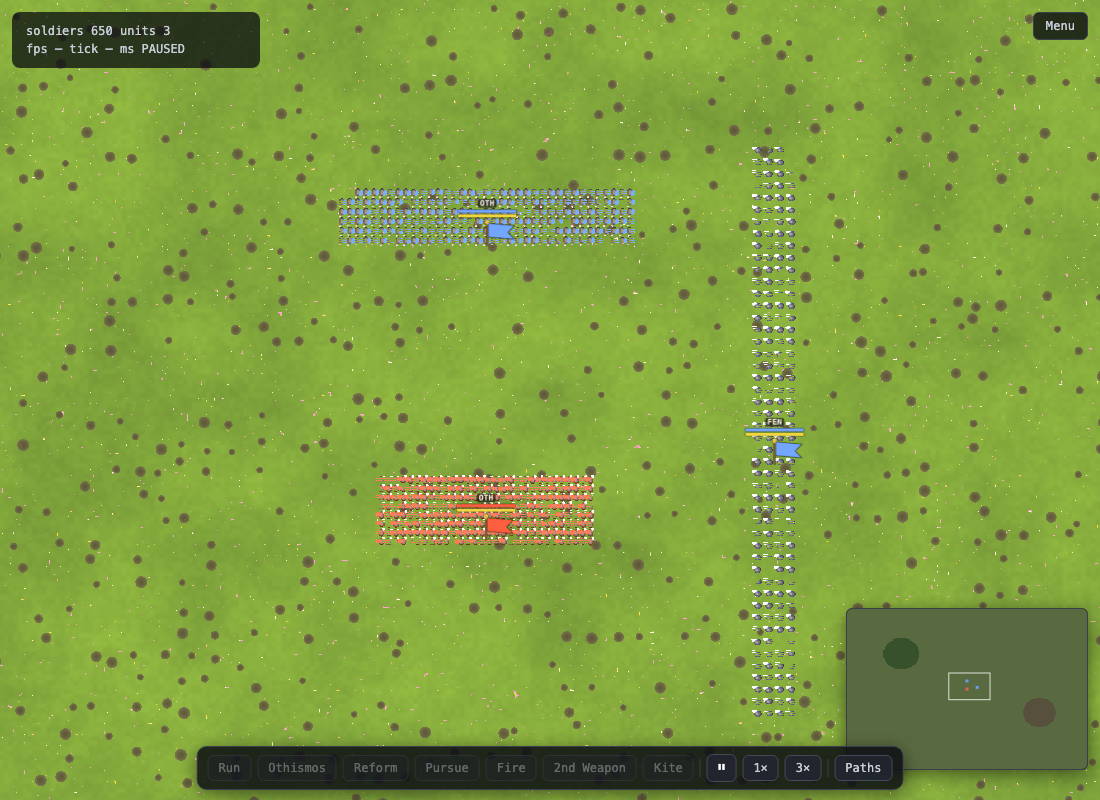
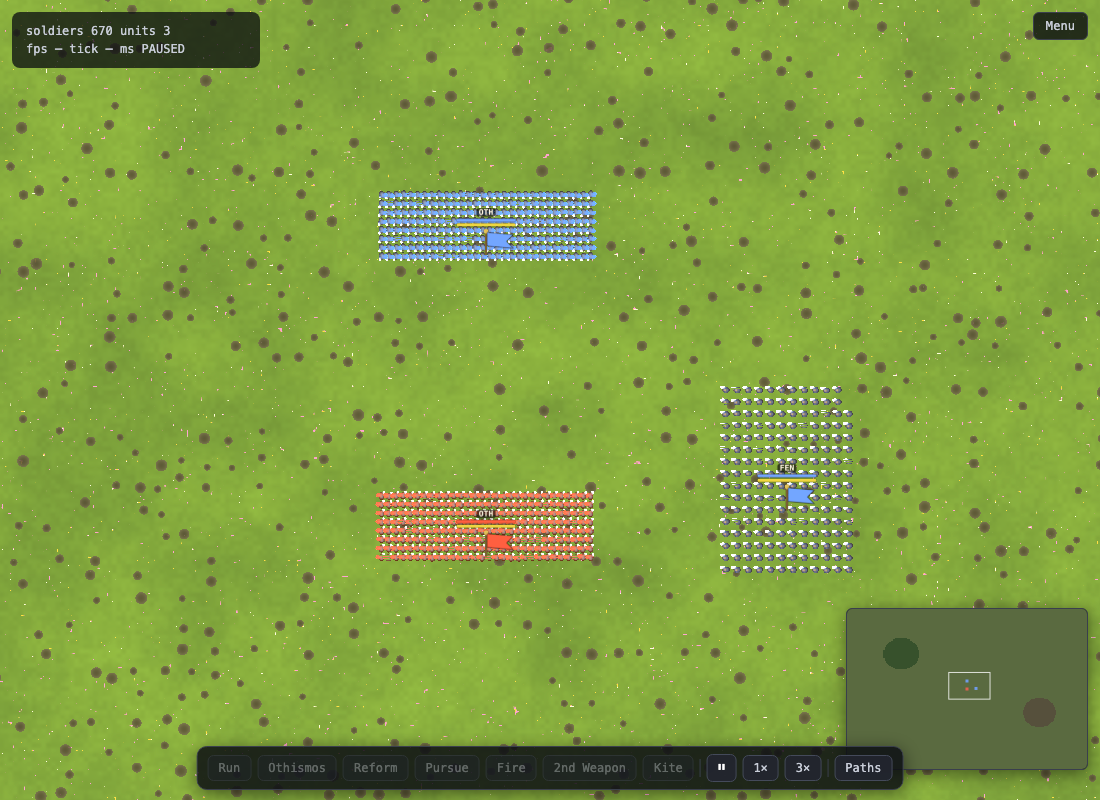
Flank sandbox: real pin (heavy) so divided defense actually cracks the target
The weak-light pin let the defender safely turn to face the flanker; with a
REAL pin (another heavy) it can't face both, and the pin+flank cracks even a
heavy (survival 0.48, attackers win 100%). The long sword is the better
flanker -- 100% win at 190 men vs a light's 88% at 220. So flanking already
works as it should (the defender turns to defend, but can't face two real
threats), the long sword is a solid flanker, and no mechanic change is needed.
Sandbox + shots updated to the working (real-pin) scenario.

diff --git a/crates/sim/src/battle.rs b/crates/sim/src/battle.rs
@@ -258,11 +258,18 @@ pub fn setup_sandbox(sim: &mut Sim, kind: u32) {
         return;
     }
     if kind == 5 {
-        // PIN + FLANK: a Heavy (team 1) pinned frontally by a Light, flanked on
-        // its right side by a Long sword — the long sword's intended role.
+        // PIN + FLANK: a Heavy (team 1) pinned frontally by ANOTHER Heavy — a
+        // real threat it can't safely turn from — and flanked on its right by a
+        // compact Long-sword block. Divided defense: it can't face both, so the
+        // flank lands and the pinned heavy is cracked. The long sword's role.
+        {
+            let mut s = sim.balance.get(UnitClassId::LongSwords);
+            s.default_depth = 12; // a compact block that concentrates on the flank, not a thin line
+            sim.balance.set(UnitClassId::LongSwords, s);
+        }
         sim.spawn_class(Vec2::new(0.0, 0.0), FRAC_PI_2, 240, UnitClassId::HeavyInfantry, 1);
-        sim.spawn_class(Vec2::new(0.0, 30.0), -FRAC_PI_2, 220, UnitClassId::LightInfantry, 0);
-        sim.spawn_class(Vec2::new(34.0, 6.0), std::f32::consts::PI, 190, UnitClassId::LongSwords, 0);
+        sim.spawn_class(Vec2::new(0.0, 30.0), -FRAC_PI_2, 240, UnitClassId::HeavyInfantry, 0);
+        sim.spawn_class(Vec2::new(30.0, 2.0), std::f32::consts::PI, 190, UnitClassId::LongSwords, 0);
         return;
     }
     if kind == 2 || kind == 3 {
